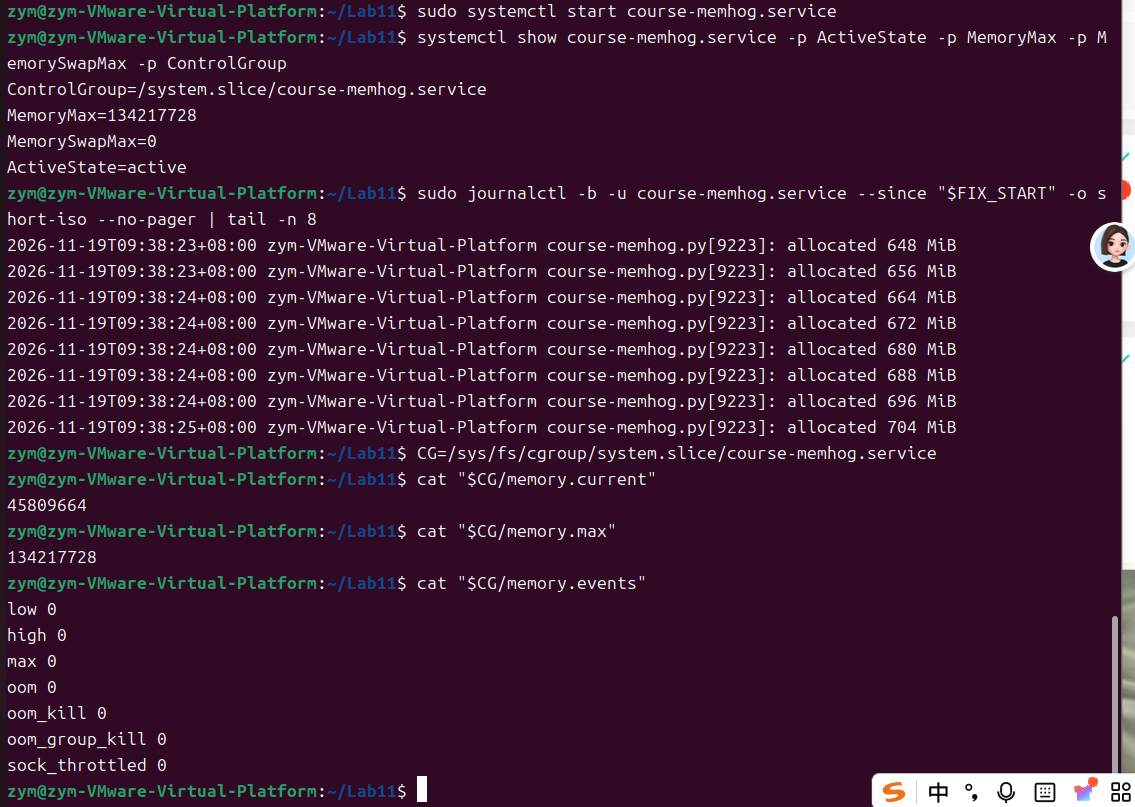
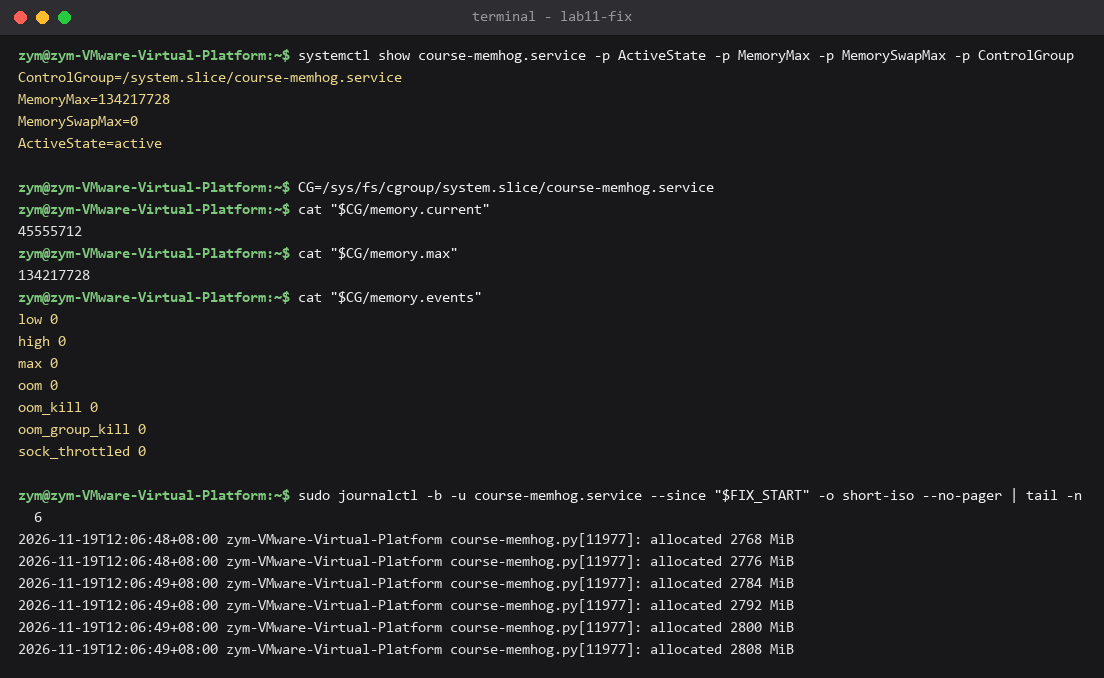
Lab11：填写服务内存限额与 OOM 日志分析报告，更新两张截图
- 完成任务一至任务五的实测记录、三问答与时间线/4W1R
- 截图替换为本次 12:03 首次 OOM 与 12:05 修复验证的实际终端输出
- 顺带恢复 Lab2/Lab9 被误删的截图（报告仍引用）

Changed region(s): [[0.0, 0.0, 1.0, 1.0], [0.6159, 0.7124, 0.9547, 0.7434]]

diff --git a/2024010039邹艳梅/Lab11/Lab11.md b/2024010039邹艳梅/Lab11/Lab11.md
@@ -182,17 +182,19 @@ systemctl show course-memhog.service -p ActiveState -p MemoryMax -p MemorySwapMa
 
 | 检查项 | 本机实测值 |
 | :--- | :--- |
-| cgroup 文件系统类型 | |
-| 整机内存 `available` | |
-| `ActiveState` | |
-| `MemoryMax` | |
-| `MemorySwapMax` | |
+| cgroup 文件系统类型 | `cgroup2fs` |
+| 整机内存 `available` | `4.1Gi`（`free -h`，启动前 2026-11-19 12:03:20 读取） |
+| `ActiveState` | `inactive` |
+| `MemoryMax` | `134217728`（128 MiB，尚未启动时即已加载） |
+| `MemorySwapMax` | `0` |
 
 根据当前观察，在启动服务前回答：
 
 **问题 1**：`available` 和 `MemoryMax` 是否描述同一个资源范围？仅根据这两项读数，能否断定服务一定不会发生内存不足？
 
-> 答：
+> 答：不是同一个资源范围。`available`（4.1Gi）是整台虚拟机的统计，表示操作系统估计还能供新程序使用的内存；`MemoryMax`（134217728 字节 = 128 MiB）是 `course-memhog.service` 所属控制组 `/system.slice/course-memhog.service` 的内存硬上限，只作用于该服务内的进程。
+>
+> 仅凭这两项读数不能断定服务不会内存不足。整机 `available` 还有 4.1Gi 时，服务仍然可以在自己的 128 MiB 限额内先达到上限；整机读数与组内限额是两个不同的统计口径，前者充足并不代表后者充足。
 
 ### 3.2 启动服务并记录退出结果
 
@@ -239,11 +241,13 @@ systemctl show course-memhog.service -p Result -p ExecMainCode -p ExecMainStatus
 
 | 检查项 | 本机实测值 |
 | :--- | :--- |
-| 本次查询起点 `START` | |
-| 服务最终状态 | |
-| `Result` | |
-| `ExecMainCode` | |
-| `ExecMainStatus` | |
+| 本次查询起点 `START` | `2026-11-19 12:03:31` |
+| 服务最终状态 | `failed`，`Active: failed (Result: oom-kill) since Thu 2026-11-19 12:03:50 CST`，`Duration: 8.528s`，`Main PID: 11337 (code=killed, signal=KILL)` |
+| `Result` | `oom-kill` |
+| `ExecMainCode` | `2`（表示主进程被信号终止） |
+| `ExecMainStatus` | `9`（SIGKILL） |
+
+> 说明：本机 systemd 对 OOM 终止给出了更具体的结果值 `oom-kill`，而不是笼统的 `signal`；这与 `status` 摘要中的 `code=killed, signal=KILL` 相互对应。
 
 > **阶段结论要求**：本任务只描述观察到的事实，不要求提前给出完整故障归因。服务退出后继续保留现场，不运行 `restore.sh`，也不要立即重新启动服务。
 
@@ -282,10 +286,10 @@ systemctl show course-memhog.service -p ActiveState -p MemoryMax -p MemorySwapMa
 
 **实验记录 3：服务配置**
 
-- `ExecStart` 的实际值：
-- `MemoryMax` 的配置值及加载值：
-- `MemorySwapMax` 的实际值：
-- `OOMPolicy` 的实际值：
+- `ExecStart` 的实际值：`/usr/local/bin/course-memhog.py`（另有 `ExecStartPre=/usr/bin/grep -Fxq 134217728 /sys/fs/cgroup/system.slice/%n/memory.max` 与两条 `ExecStopPost`，分别用于保存 cgroup 统计和向 syslog 发送退出摘要）
+- `MemoryMax` 的配置值及加载值：配置 `MemoryMax=128M`；`systemctl show` 加载值 `MemoryMax=134217728`（128 × 1024 × 1024），配置与加载值一致
+- `MemorySwapMax` 的实际值：`0`
+- `OOMPolicy` 的实际值：`stop`（同时 `ActiveState=failed`，确认读取的是首次异常退出后的状态）
 
 ### 4.2 根据现有源码推断内存变化
 
@@ -339,9 +343,11 @@ sudo journalctl -b -u course-memhog.service --since "$START" -o short-iso --no-p
 
 | 记录项 | 时间 | PID | 日志原文或累计量 |
 | :--- | :--- | :--- | :--- |
-| 最早一条 `allocated` | | | |
-| 倒数第二条 `allocated` | | | |
-| 最后一条 `allocated` | | | |
+| 最早一条 `allocated` | 2026-11-19T12:03:41+08:00 | 11337 | `course-memhog.py[11337]: allocated 8 MiB` |
+| 倒数第二条 `allocated` | 2026-11-19T12:03:48+08:00 | 11337 | `course-memhog.py[11337]: allocated 112 MiB` |
+| 最后一条 `allocated` | 2026-11-19T12:03:49+08:00 | 11337 | `course-memhog.py[11337]: allocated 120 MiB` |
+
+> 说明：最后一条只能证明累计已成功创建 120 MiB 数据块，第 16 次申请（128 MiB）是否成功、是否在打印前即被终止，日志无法证明，因此不能把它当作被终止瞬间的精确用量。
 
 ### 4.4 用内核 journal 判断退出原因
 
@@ -382,20 +388,33 @@ Memory cgroup out of memory: Killed process 4120 (python3) …
 
 | 检查项 | 本次实际证据 |
 | :--- | :--- |
-| 服务分配日志中的 PID | |
-| 内核终止记录中的 PID | |
-| 内核 OOM 约束字段 | |
-| 内核控制组路径 | |
-| 服务 `Result` | |
-| 主进程退出方式和状态 | |
+| 服务分配日志中的 PID | `11337`（`course-memhog.py[11337]`，12:03:41–12:03:49 全部同此 PID） |
+| 内核终止记录中的 PID | `11337`（`Killed process 11337 (python3)`，同一行 `pid=11337`） |
+| 内核 OOM 约束字段 | `constraint=CONSTRAINT_MEMCG` |
+| 内核控制组路径 | `oom_memcg=/system.slice/course-memhog.service`，`task_memcg=/system.slice/course-memhog.service` |
+| 服务 `Result` | `oom-kill` |
+| 主进程退出方式和状态 | `ExecMainCode=2`（信号终止），`ExecMainStatus=9`（SIGKILL），journal 中为 `Main process exited, code=killed, status=9/KILL` |
 
 粘贴能够同时支持进程标识和约束范围判断的**内核原始日志**：
 
 > 日志：
+>
+> ```text
+> 2026-11-19T12:03:49+08:00 zym-VMware-Virtual-Platform kernel: python3 invoked oom-killer: gfp_mask=0xcc0(GFP_KERNEL), order=0, oom_score_adj=0
+> 2026-11-19T12:03:49+08:00 zym-VMware-Virtual-Platform kernel: oom-kill:constraint=CONSTRAINT_MEMCG,nodemask=(null),cpuset=/,mems_allowed=0,oom_memcg=/system.slice/course-memhog.service,task_memcg=/system.slice/course-memhog.service,task=python3,pid=11337,uid=0
+> 2026-11-19T12:03:49+08:00 zym-VMware-Virtual-Platform kernel: Memory cgroup out of memory: Killed process 11337 (python3) total-vm:151752kB, anon-rss:130712kB, file-rss:6964kB, shmem-rss:0kB, UID:0 pgtables:332kB oom_score_adj:0
+> ```
 
 **问题 2**：本次服务退出是否可以归因为控制组范围内的 OOM？请引用至少两项相互独立、能够对应到同一次运行的证据进行说明。
 
-> 答：
+> 答：可以归因为控制组范围内的 OOM。以下证据相互独立，且都能对应到 `START=2026-11-19 12:03:31` 之后的同一次运行：
+>
+> 1. **内核日志（约束范围）**：12:03:49 的记录为 `oom-kill:constraint=CONSTRAINT_MEMCG,…,oom_memcg=/system.slice/course-memhog.service,…,task=python3,pid=11337`，紧接着是 `Memory cgroup out of memory: Killed process 11337 (python3)`。`CONSTRAINT_MEMCG` 说明内核是在内存控制组范围、而不是整机范围内判定内存不足并执行终止的。
+> 2. **服务日志（进程标识与时间）**：同一次运行的分配记录全部来自 `course-memhog.py[11337]`，最后一条为 12:03:49 的 `allocated 120 MiB`，与内核终止记录中的 `pid=11337` 完全一致，时间也落在内核记录前后数秒内。
+> 3. **systemd 与 syslog（服务结果）**：`Result=oom-kill`、`ExecMainCode=2`、`ExecMainStatus=9`，并且 `course-memhog-result` 摘要为 `result=oom-kill exit_code=killed exit_status=KILL`；该结果值与内核 OOM 终止的判断一致，而不是普通的 `SIGTERM` 停止。
+> 4. **cgroup 计数器（内核侧统计）**：`memory.events:oom 1`、`memory.events:oom_kill 1`、`memory.peak:134217728`，峰值正好等于 `MemoryMax` 的 128 MiB 上限，说明该组是用量顶到限额后才发生 OOM 的。
+>
+> 需要强调的是：单看 `failed` 或 `SIGKILL` 不足以认定 OOM，真正的判据是内核日志中的 `CONSTRAINT_MEMCG` 与 `oom_memcg=/system.slice/course-memhog.service`，以及 PID 11337 在服务日志与内核日志之间的一致对应。
 
 **截图 1：故障证据。** 在一张图中呈现服务退出结果以及本次内核 OOM 记录。应能辨认服务名称、进程名、PID 和触发约束的关键信息；允许将两段终端输出拼为一张图。
 
@@ -446,12 +465,25 @@ sudo journalctl -b -u course-memhog.service --since "$START" --no-pager | grep -
 粘贴包含上述字段的原始日志行：
 
 > 原始输出：
+>
+> ```text
+> Nov 19 12:03:49 zym-VMware-Virtual-Platform grep[11340]: /sys/fs/cgroup/system.slice/course-memhog.service/memory.events:low 0
+> Nov 19 12:03:49 zym-VMware-Virtual-Platform grep[11340]: /sys/fs/cgroup/system.slice/course-memhog.service/memory.events:high 0
+> Nov 19 12:03:49 zym-VMware-Virtual-Platform grep[11340]: /sys/fs/cgroup/system.slice/course-memhog.service/memory.events:max 39
+> Nov 19 12:03:49 zym-VMware-Virtual-Platform grep[11340]: /sys/fs/cgroup/system.slice/course-memhog.service/memory.events:oom 1
+> Nov 19 12:03:49 zym-VMware-Virtual-Platform grep[11340]: /sys/fs/cgroup/system.slice/course-memhog.service/memory.events:oom_kill 1
+> Nov 19 12:03:49 zym-VMware-Virtual-Platform grep[11340]: /sys/fs/cgroup/system.slice/course-memhog.service/memory.events:oom_group_kill 0
+> Nov 19 12:03:49 zym-VMware-Virtual-Platform grep[11340]: /sys/fs/cgroup/system.slice/course-memhog.service/memory.events:sock_throttled 0
+> Nov 19 12:03:49 zym-VMware-Virtual-Platform grep[11340]: /sys/fs/cgroup/system.slice/course-memhog.service/memory.peak:134217728
+> ```
 
 | 指标 | 本次实测值 | 单位 |
 | :--- | :--- | :--- |
-| `oom` | | 次 |
-| `oom_kill` | | 个进程 |
-| `memory.peak` | | 字节或 MiB（注明换算） |
+| `oom` | 1 | 次 |
+| `oom_kill` | 1 | 个进程 |
+| `memory.peak` | `134217728`，即 `134217728 ÷ 1048576 = 128 MiB` | 字节（附 MiB 换算） |
+
+> 补充读法：`max 39` 表示该组先后 39 次触到硬上限并尝试回收/节流，`high 0` 说明没有配置 `memory.high` 压力档，最终仍以 `oom 1`、`oom_kill 1` 收场。这些数值由内核统计，与程序打印的 `allocated 120 MiB` 不是同一指标。
 
 > **阶段结论要求**：任务二完成后，应能分别回答“程序如何持续增加内存保留量”“内存限制作用于何处”“哪个进程被终止”。这三个问题的证据来源不同，报告中不要将它们混为单一结论。
 
@@ -505,7 +537,14 @@ course-memhog-result: unit=course-memhog.service result=<服务结果> exit_code
 
 > 本机查询结果：
 >
-> 对应的时间与服务结果：
+> ```text
+> 2026-11-19T09:52:34.555156+08:00 zym-VMware-Virtual-Platform course-memhog-result: unit=course-memhog.service result=success exit_code=killed exit_status=TERM
+> 2026-11-19T12:03:49.999325+08:00 zym-VMware-Virtual-Platform course-memhog-result: unit=course-memhog.service result=oom-kill exit_code=killed exit_status=KILL
+> ```
+>
+> 对应的时间与服务结果：本次运行对应 **2026-11-19T12:03:49.999325+08:00** 这一条，`result=oom-kill`、`exit_code=killed`、`exit_status=KILL`，与实验记录 2 中的 `Result=oom-kill`、`ExecMainCode=2`、`ExecMainStatus=9` 一一对应（数字 `2`/`9` 分别以 `killed`/`KILL` 的文本形式呈现）。
+>
+> 上一条 09:52:34 的记录属于更早的一次试运行（`exit_status=TERM`），不属于本次故障，因此必须按时间挑选，不能只看服务名。
 
 ### 5.3 在 Grafana 中查询相同事件
 
@@ -531,11 +570,13 @@ course-memhog-result: unit=course-memhog.service result=<服务结果> exit_code
 
 | 项目 | 实际结果 |
 | :--- | :--- |
-| Grafana 查询时间范围 | |
+| Grafana 查询时间范围 | 2026-11-19 12:00:00 — 12:10:00（覆盖首次启动 12:03:40 至退出 12:03:50） |
 | 使用的 LogQL | `{job="syslog"} |= "course-memhog-result" |= "unit=course-memhog.service"` |
-| 命中记录的 `host` | |
-| 本次退出摘要原文 | |
-| 与本机记录的对应依据 | |
+| 命中记录的 `host` | `zym-VMware-Virtual-Platform`（流标签为 `job="syslog"`、`filename="/var/log/syslog"`） |
+| 本次退出摘要原文 | `2026-11-19T12:03:49.999325+08:00 zym-VMware-Virtual-Platform course-memhog-result: unit=course-memhog.service result=oom-kill exit_code=killed exit_status=KILL` |
+| 与本机记录的对应依据 | 该查询在该时间窗内只返回 1 条记录（`totalEntriesReturned: 1`），时间戳 12:03:49.999325 落在服务退出时刻，`result/exit_code/exit_status` 三项与 `systemctl show` 及本机 `/var/log/syslog` 完全一致，`host` 为本机主机名 |
+
+> 采集链路状态：`systemctl is-active rsyslog alloy loki grafana-server` 四项均返回 `active`，`curl -sS http://127.0.0.1:3100/ready` 返回 `ready`。查询语句与 Grafana Explore（Loki 数据源，Code 模式）使用的是同一条 LogQL，上述结果由 Loki 的查询接口返回，可用于核对该次退出摘要已经通过 Alloy 进入 Loki。
 
 如果查询为空，应分别记录：本机 syslog 是否存在该行、Grafana 的时间范围是否正确、组件状态如何，以及问题可能位于哪一段采集链路。查询为空本身并不否定任务二已经取得的本机 OOM 证据。
 
@@ -677,16 +718,16 @@ cat "$CG/memory.events"
 
 | 对照项 | 原程序首次运行 | 修改后第二次运行 |
 | :--- | :--- | :--- |
-| `MemoryMax` | | |
-| `MemorySwapMax` | | |
-| 第二次查询起点 `FIX_START` | 不适用 | |
-| 每轮申请大小 | | |
-| 数据块保留方式 | | |
-| 可确认的运行时长 | | |
-| 最后一次观察到的累计 `allocated` | | |
-| 运行状态 / 退出结果 | | |
-| `memory.current`（运行中） | 不适用，若未实时采样则填写“未取得” | |
-| `oom_kill` | | |
+| `MemoryMax` | `134217728`（128 MiB） | `134217728`（128 MiB，未改变） |
+| `MemorySwapMax` | `0` | `0`（未改变） |
+| 第二次查询起点 `FIX_START` | 不适用 | `2026-11-19 12:05:37` |
+| 每轮申请大小 | 8 MiB（`bytearray(8 * 1024 * 1024)`） | 8 MiB（未改变） |
+| 数据块保留方式 | `chunks = []`，列表持有全部数据块，永不释放 | `chunks = deque(maxlen=4)`，最多保留 4 个数据块 |
+| 可确认的运行时长 | 约 8.5 秒（12:03:41 首次分配 → 12:03:49 终止；`Duration: 8.528s`） | 至少 71 秒（12:05:38 首次分配 → 12:06:49 最后一次观察到的分配），查询时仍在运行 |
+| 最后一次观察到的累计 `allocated` | `120 MiB` | `2808 MiB`（PID 11977，12:06:49），之后仍在继续增长 |
+| 运行状态 / 退出结果 | `failed`，`Result=oom-kill`，`ExecMainStatus=9` | `ActiveState=active`（查询时仍在运行），无新的退出记录 |
+| `memory.current`（运行中） | 不适用（首次未实时采样） | `45555712` 字节 ≈ 43.4 MiB（12:06:48 读取，同一运行中另一次读到 `45813760` 字节 ≈ 43.7 MiB） |
+| `oom_kill` | `1`（`memory.events:oom_kill 1`） | `0`（运行中 `memory.events` 为 `oom 0`、`oom_kill 0`；`memory.peak` 仅 `46075904` 字节 ≈ 43.9 MiB） |
 
 **问题 3**：第二次运行是否满足以下验证条件？逐项给出实际证据。
 
@@ -695,9 +736,14 @@ cat "$CG/memory.events"
 3. 第二次运行的当前内存用量低于所配置的硬上限。
 4. 第二次运行期间没有发现新的 OOM 终止；如果取得了 `oom_kill`，应核对其值。
 
-> 验证结果：
+> 验证结果：四项条件均满足。
 >
 > 证据说明：
+>
+> 1. **限额相同**：第二次运行中 `systemctl show course-memhog.service -p MemoryMax -p MemorySwapMax` 仍为 `MemoryMax=134217728`、`MemorySwapMax=0`，与首次运行完全一致；`ControlGroup=/system.slice/course-memhog.service` 也保持不变。两次运行之间只修改了 `/usr/local/bin/course-memhog.py` 的数据保留方式（`diff` 显示仅新增 `from collections import deque` 与 `chunks = deque(maxlen=4)` 两处），服务单元配置文件未改动。
+> 2. **持续分配且观察时长更长**：第二次运行的分配记录从 12:05:38 的 `allocated 8 MiB` 持续增长到 12:06:49 的 `allocated 2808 MiB`（PID 11977），可确认时长约 71 秒，而首次运行从首次分配到被终止仅 8.5 秒左右。若仍按原逻辑，70 秒内累计分配量早已远超 128 MiB 限额。
+> 3. **当前用量低于硬上限**：12:06:48 读取 `/sys/fs/cgroup/system.slice/course-memhog.service/memory.current` 为 `45555712` 字节（约 43.4 MiB），`memory.max` 为 `134217728` 字节（128 MiB），当前用量约为上限的 34%。
+> 4. **无新的 OOM 终止**：同一时刻 `memory.events` 中 `oom 0`、`oom_kill 0`、`max 0`，`memory.peak` 仅 `46075904` 字节（约 43.9 MiB），远低于 128 MiB；本次运行的 journal 中也没有出现新的 `oom-kill` 或 `Killed process` 记录。
 
 在这些条件得到证据支持时，可以得出：**在本次观察窗口及相同限额条件下，修改后的程序未复现原故障，并持续完成内存分配。**这不等于已经证明该程序在任意负载、任意时长下都不会出现内存问题。
 
@@ -727,7 +773,14 @@ systemctl is-active course-memhog.service
 
 > `restore.sh` 的执行结果：
 >
-> 清理后的服务状态：
+> ```text
+> [Lab11] 已删除实验新建的 /etc/systemd/system/course-memhog.service
+> [Lab11] 已删除实验新建的 /usr/local/bin/course-memhog.py
+> [Lab11] 已移除 Lab11 的 course-memhog 服务与脚本。
+> [Lab11] journal、dmesg 中的 OOM 记录保留，供报告和复盘使用。
+> ```
+>
+> 清理后的服务状态：`systemctl is-active course-memhog.service` 返回 `inactive`；`/etc/systemd/system/course-memhog.service` 与 `/usr/local/bin/course-memhog.py` 均已不存在。journal 中两次运行的日志与内核 OOM 记录仍然保留，本报告的证据均取自清理前的实际输出。
 
 ---
 
@@ -779,10 +832,12 @@ sudo journalctl -b -k --since "$START" --until "$FIX_START" -o short-iso --no-pa
 
 | 顺序 | 实际时刻 | 来源 | 关键原文或摘要 |
 | :--- | :--- | :--- | :--- |
-| 1 | | 服务 journal | 最早一次成功分配 |
-| 2 | | 服务 journal | 最后一次成功分配 |
-| 3 | | 内核 journal | 进程被终止 |
-| 4 | | 服务 journal / systemd | 服务退出结果 |
+| 1 | 2026-11-19T12:03:41+08:00 | 服务 journal | `course-memhog.py[11337]: allocated 8 MiB`（最早一次成功分配） |
+| 2 | 2026-11-19T12:03:49+08:00 | 服务 journal | `course-memhog.py[11337]: allocated 120 MiB`（最后一次成功分配，PID 与第 1 行相同） |
+| 3 | 2026-11-19T12:03:49+08:00 | 内核 journal | `oom-kill:constraint=CONSTRAINT_MEMCG,…,oom_memcg=/system.slice/course-memhog.service,task=python3,pid=11337`；`Memory cgroup out of memory: Killed process 11337 (python3) total-vm:151752kB, anon-rss:130712kB` |
+| 4 | 2026-11-19T12:03:49+08:00 / 12:03:50+08:00 | 服务 journal / systemd | `course-memhog.service: Main process exited, code=killed, status=9/KILL`；`course-memhog-result: unit=course-memhog.service result=oom-kill exit_code=killed exit_status=KILL`；`Failed with result 'oom-kill'`（`Result=oom-kill`、`ExecMainStatus=9`） |
+
+> 说明：`START=2026-11-19 12:03:31` 只是查询起点，第一次成功分配发生在 12:03:41。第 2、3、4 行日志中时间显示为同一秒（12:03:49），这里保留原始时间，不补写毫秒；先后顺序由日志行序与 `Duration: 8.528s` 支持的“分配 → 终止 → 退出记录”关系确定。
 
 `START` 只是日志查询起点，并不等于程序第一次成功分配的时间。若多个事件在日志中显示为同一秒，应保留实际时间；不能为使顺序更明显而编造毫秒数。
 
@@ -800,7 +855,7 @@ sudo journalctl -b -k --since "$START" --until "$FIX_START" -o short-iso --no-pa
 
 | When（时间） | Where（虚拟机、控制组） | Who（进程、PID） | What（触发条件和内核动作） | Result（服务结果） |
 | :--- | :--- | :--- | :--- | :--- |
-| | | | | |
+| 2026-11-19 12:03:41 — 12:03:49（约 8.5 秒） | 虚拟机 `zym-VMware-Virtual-Platform`（192.168.30.128）；控制组 `/system.slice/course-memhog.service` | `python3`（服务日志中显示为 `course-memhog.py`），PID `11337` | 程序每轮新建 8 MiB 数据块并全部保留在 `chunks` 列表中，组内用量持续增长，触到 `MemoryMax=134217728`；内核以 `constraint=CONSTRAINT_MEMCG`、`oom_memcg=/system.slice/course-memhog.service` 判定控制组内存不足并执行 `Killed process 11337` | `failed`，`Result=oom-kill`，`ExecMainCode=2`，`ExecMainStatus=9`（`code=killed, signal=KILL`）；syslog 摘要 `result=oom-kill exit_code=killed exit_status=KILL` |
 
 ### 7.3 给出完整故障结论
 
@@ -826,7 +881,7 @@ sudo journalctl -b -k --since "$START" --until "$FIX_START" -o short-iso --no-pa
 
 **实验结论**
 
-> 答：
+> 答：`/usr/local/bin/course-memhog.py` 每 0.2 秒新建一个 8 MiB 的 `bytearray`，并用 `chunks.append(...)` 把它们全部保存在列表中，因此进程占用的内存只增不减；而该程序是通过 `course-memhog.service` 启动的，服务单元配置了 `MemoryMax=128M`（加载值 134217728 字节）和 `MemorySwapMax=0`，限制作用在 `/system.slice/course-memhog.service` 这个控制组上，而不是整台虚拟机，所以整机 `available` 仍有 4.1Gi 时服务照样会先触顶。首次运行中，程序从 12:03:41 的 `allocated 8 MiB` 一路打印到 12:03:49 的 `allocated 120 MiB`，随后内核日志给出 `oom-kill:constraint=CONSTRAINT_MEMCG,…,oom_memcg=/system.slice/course-memhog.service,task=python3,pid=11337` 与 `Memory cgroup out of memory: Killed process 11337 (python3)`，把“用量增长—限额触顶—控制组内 OOM 终止”三者联系在同一次运行、同一个 PID 上；systemd 随后记录 `Main process exited, code=killed, status=9/KILL` 与 `Result=oom-kill`、`ExecMainStatus=9`，`memory.events` 中的 `oom 1`、`oom_kill 1`、`memory.peak:134217728` 进一步说明该组确实顶到硬上限后才被终止。修复时保持服务单元、限额、每轮 8 MiB 与 0.2 秒间隔全部不变，只把 `chunks = []` 改为 `chunks = deque(maxlen=4)`，使容器最多保留最近 4 个数据块、旧块可被回收；第二次运行（12:05:38 起）在同样 128 MiB 限额下持续运行 71 秒以上，累计 `allocated` 达到 2808 MiB，而 `memory.current` 仅约 43.4 MiB、`memory.peak` 约 43.9 MiB，`oom_kill` 为 0，服务一直处于 `active`，原故障未复现。由此可以确认：本实验的内存限制作用于服务所在的控制组，OOM 终止可由内核日志中的约束字段与 PID 对应关系确认，而在不提高限额的前提下，仅改变数据保留方式即可让服务持续运行；该结论的适用范围是本实验的观察窗口与负载条件，不等于程序在任何时长、任何负载下都不会出现内存问题。
 
 ---
 
